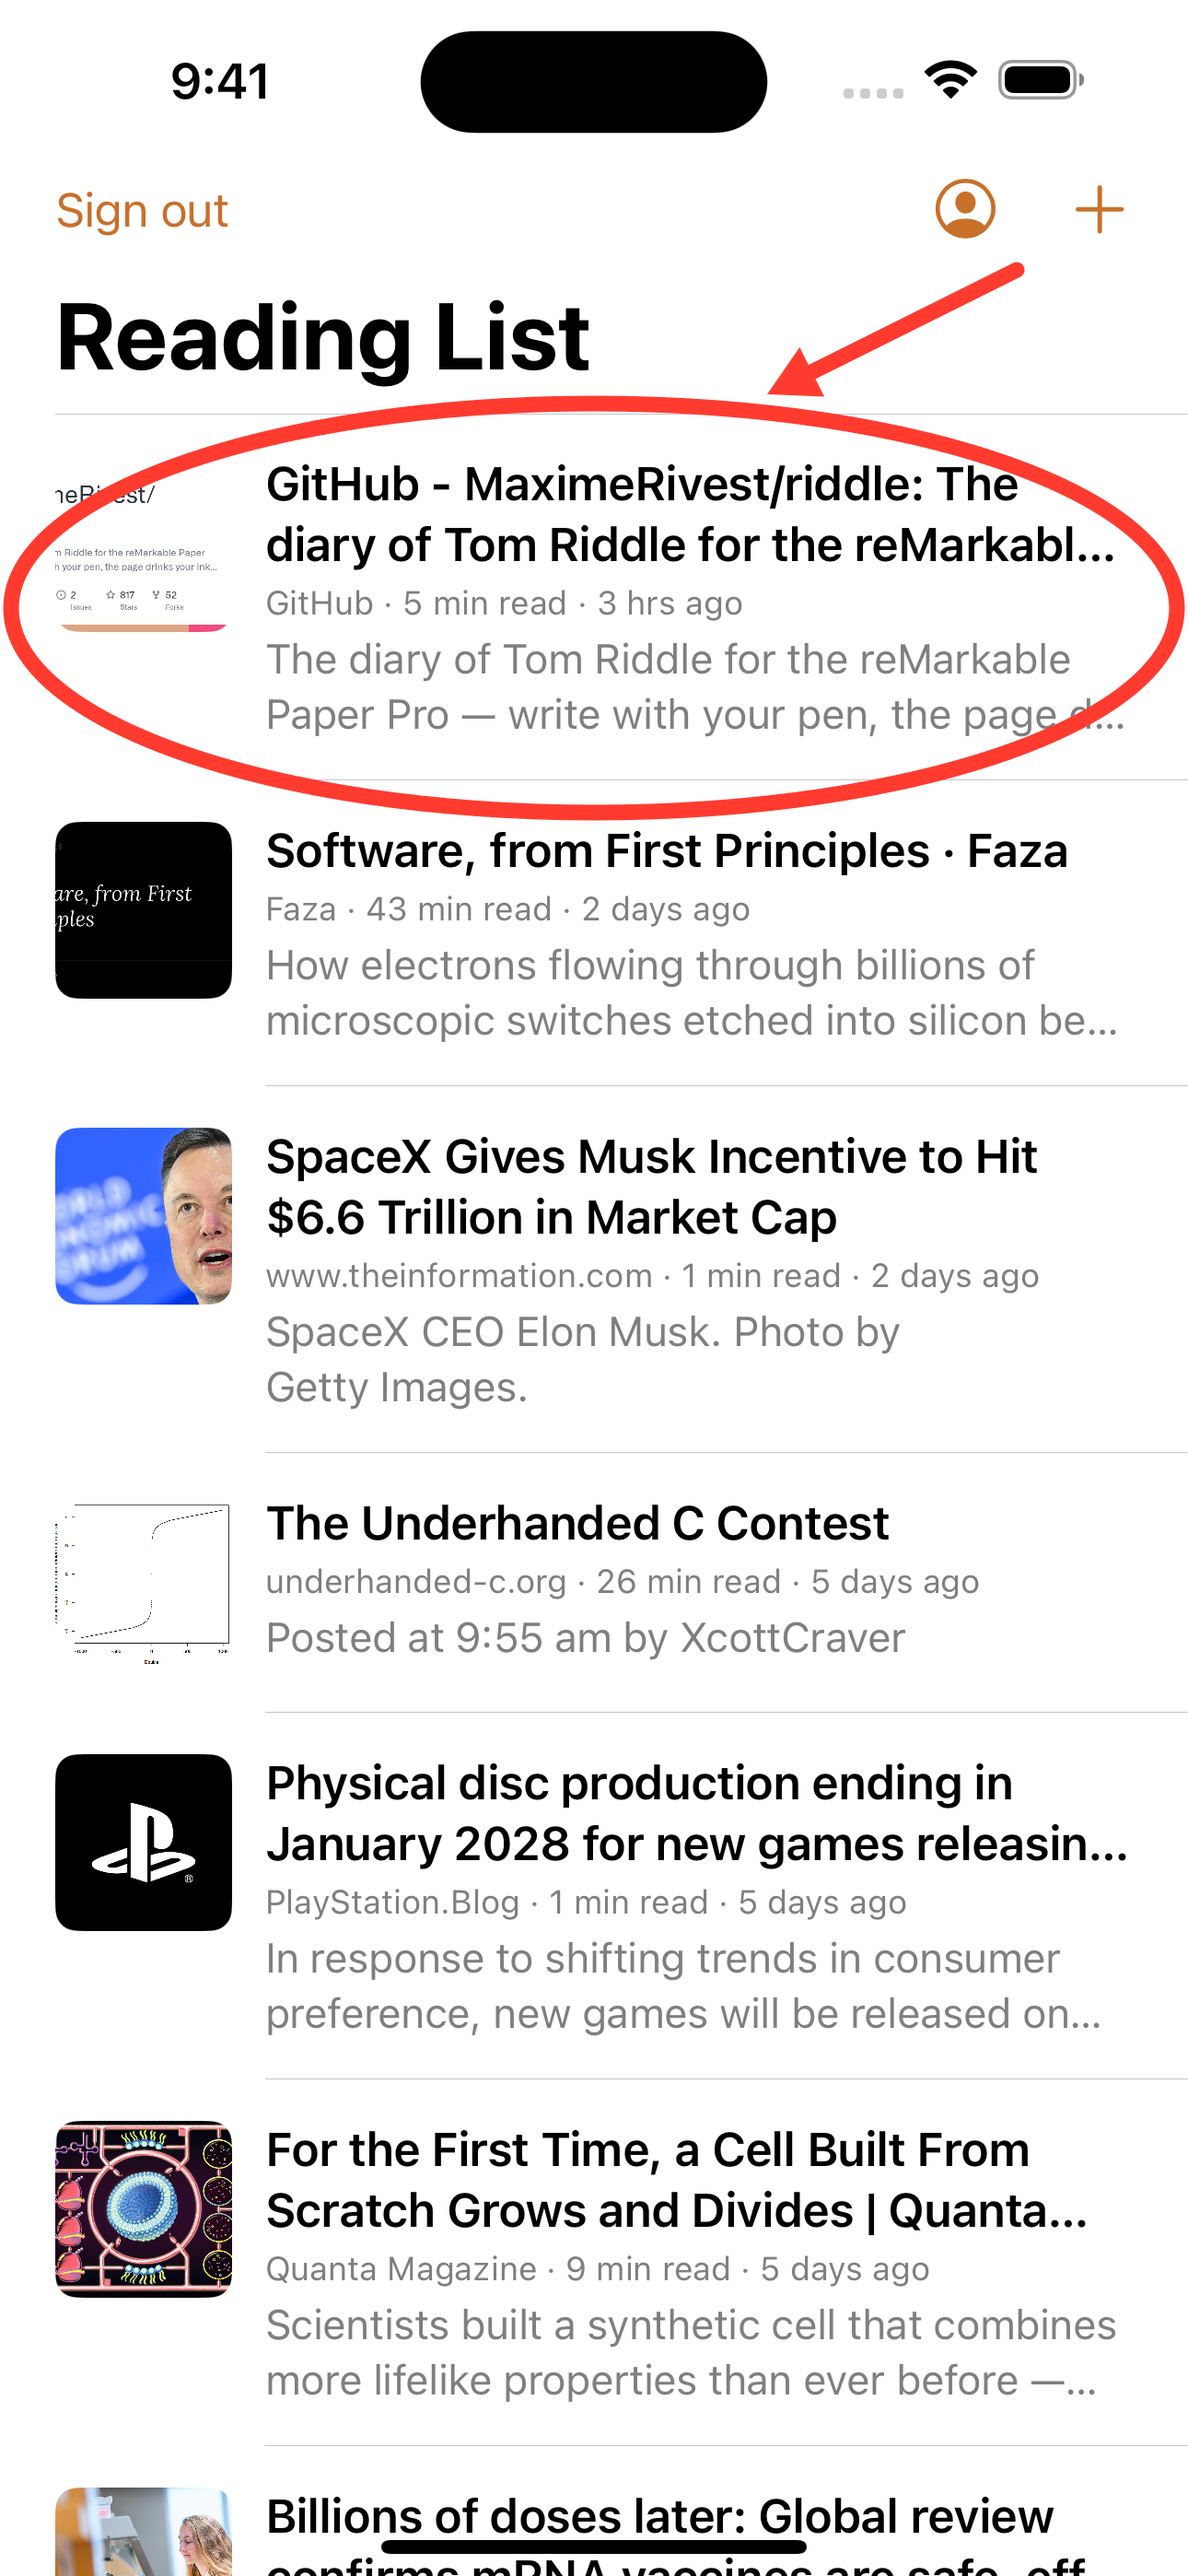
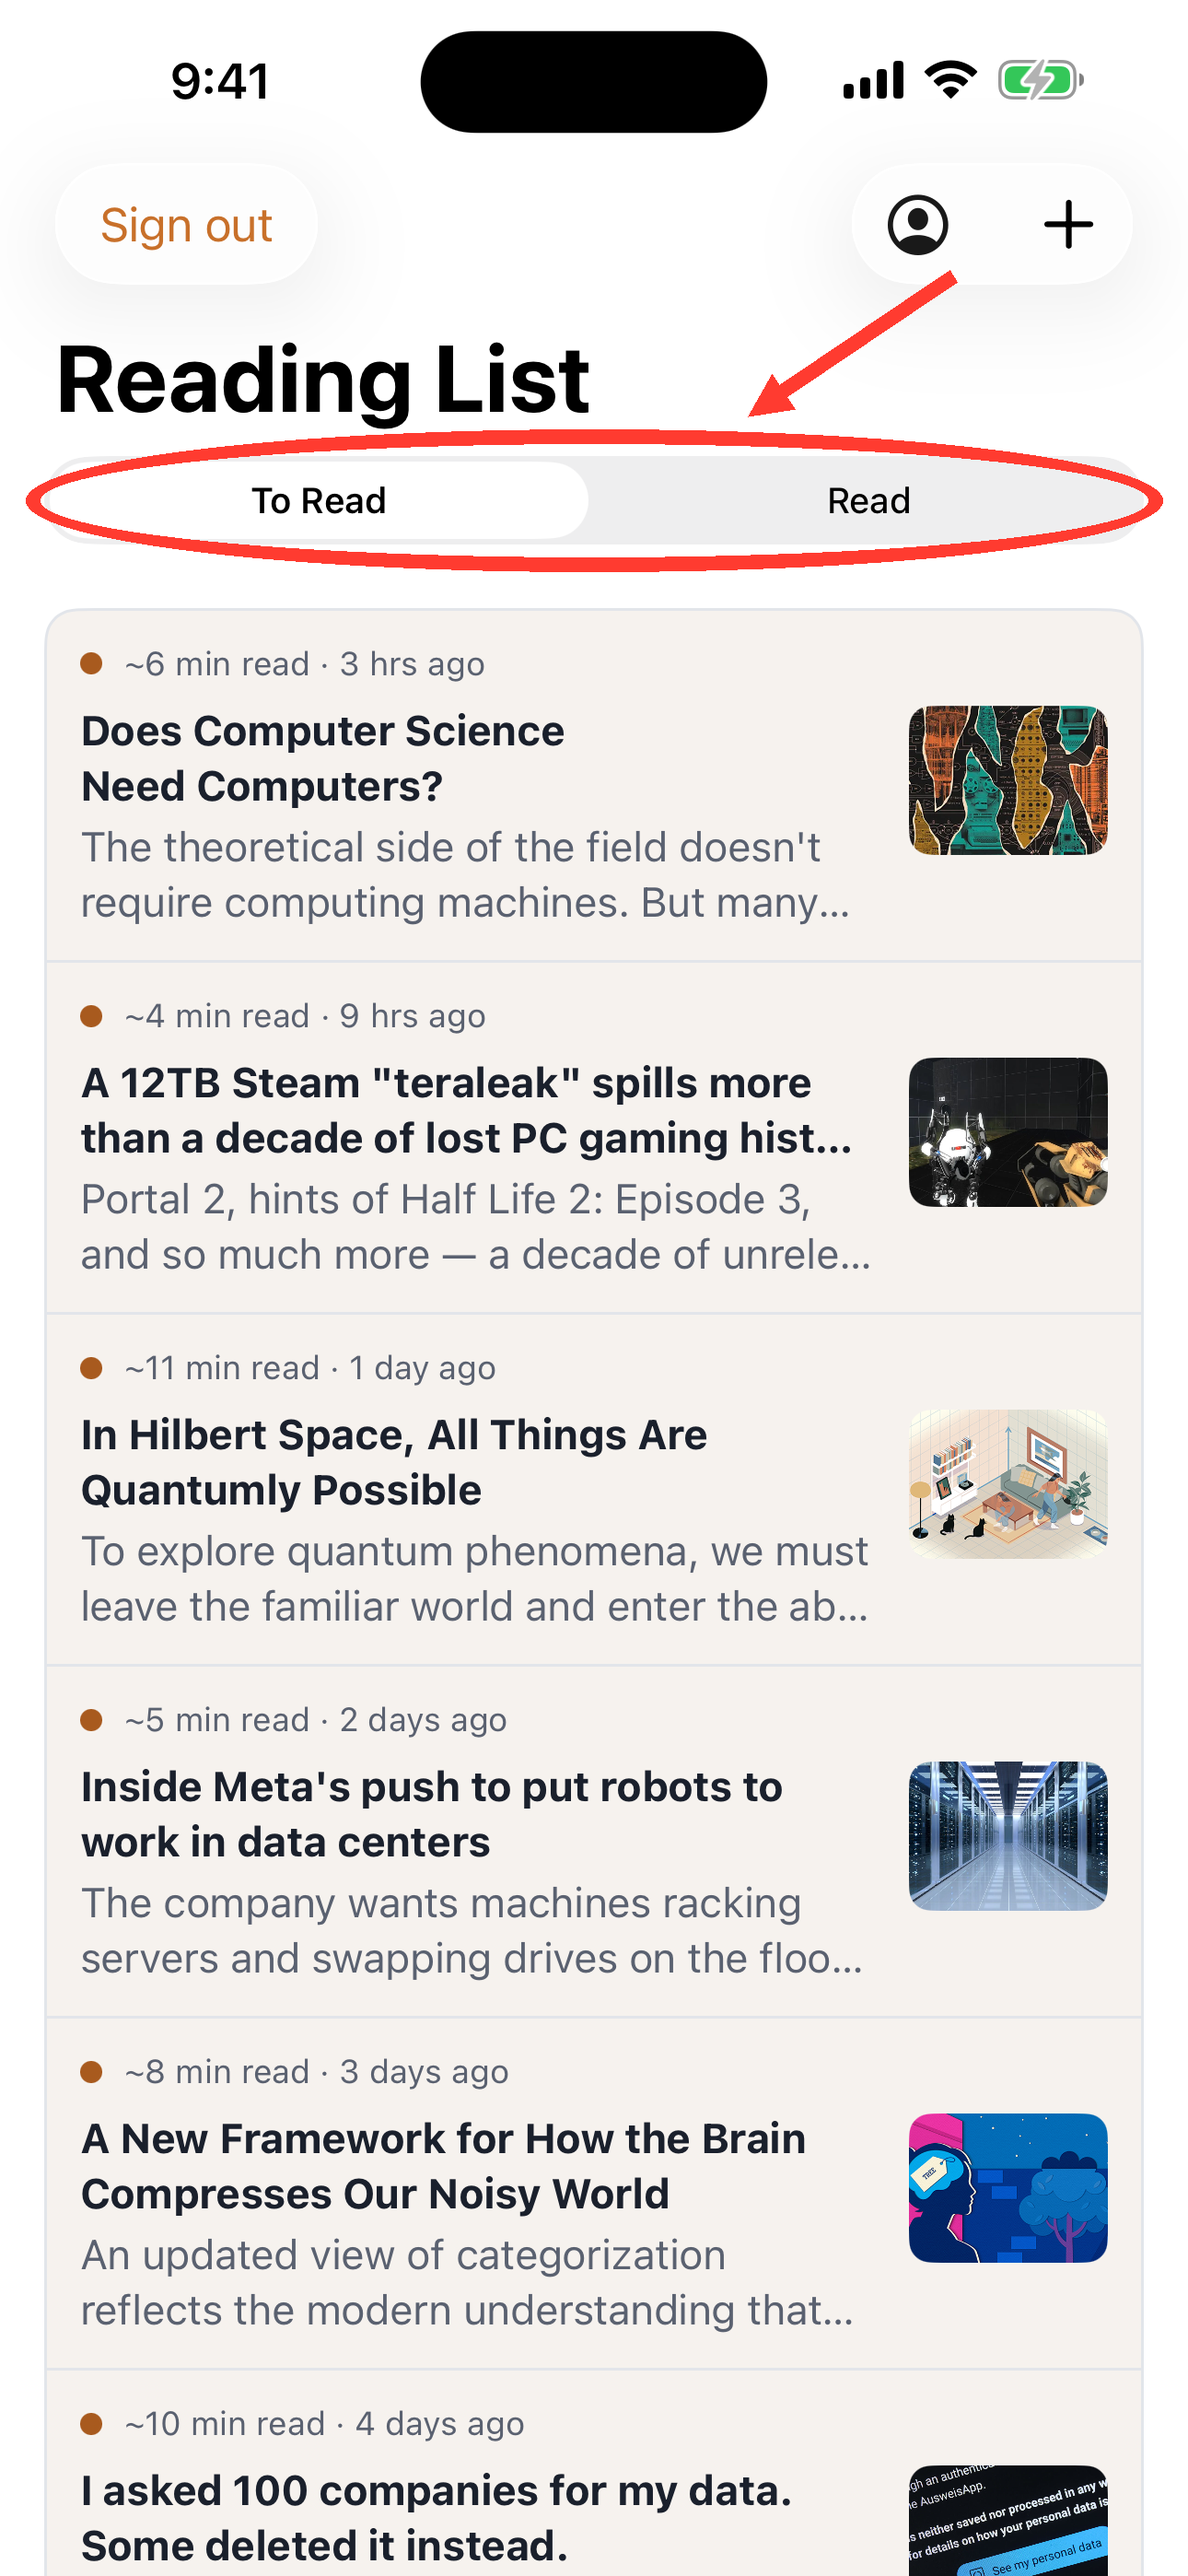
docs(ios): describe 1.0.104 and recapture the screenshots it changed
The listing still carried the 1.0.83 note ("the intro animation is gone") and
screenshots taken on 2026-07-26, which predate the reading-list restyle, the
To Read / Read segmented control and the brand-palette repaint. The hero shot
showed a screen the app no longer has, and the reader shot named a control the
product renamed: "Back to queue" is "Back to readlist" everywhere now.

The note covers what an upgrader from 1.0.83 actually meets: the Read tab, the
redesigned list, and share-sheet saves that no longer drop the captured page.
The in-app web reading-list door is deliberately absent — it was added and
reverted inside this range and only ever existed in internal build 95.

Shots 1, 2 and 4 are recaptured on an iPhone 15 Pro Max at iOS 26.5 (the 6.9"
devices capture 1320x2868, a size this fastlane cannot file), with the callout
on shot 1 moved onto the filter it now teaches. Shot 3 is the system share
sheet and is unchanged. Nothing in CI compares the committed PNGs against the
build, so the recapture recipe is written down next to the flatten-to-RGB rule
it depends on.

diff --git a/projects/native-apps/ios/RELEASING.md b/projects/native-apps/ios/RELEASING.md
@@ -265,6 +265,20 @@ listing and a deliberate human submission. The moving parts:
    "screenshots missing" until its retries run out. Flatten before committing,
    e.g.
    `python3 -c "from PIL import Image; im = Image.open('shot.png').convert('RGB'); im.save('shot.png')"`.
+
+   Nothing in CI compares the committed PNGs against the build — `verify_screenshots!`
+   only proves App Store Connect matches git — so a UI change silently leaves the
+   listing showing an app that no longer exists. Recapture whenever the screens in
+   frame change. The capture that produced the current set: create an **iPhone 15
+   Pro Max on the newest iOS runtime** (`simctl create`; a 16/17 Pro Max captures
+   1320×2868, the 6.9″ size this fastlane cannot file), `simctl ui … appearance
+   light`, `simctl status_bar … override --time 9:41`, run the app against a local
+   `dist/e2e/e2e-server.main.js` seeded through `/e2e/seed-crawled-article`, and
+   sign it in by planting `oauth.accessToken`/`oauth.refreshToken` in the App Group
+   plist **while the device is shut down** (a booted `cfprefsd` writes its cached
+   copy back over the file) followed by `simctl keychain … reset`, since the token
+   migration only runs when the Keychain has none. The red callouts are `#FF3B30`
+   at a 16px stroke.
 3. **App Review contact + demo account** ride the same push, from `prod`
    environment secrets (never git — they are PII/credentials):
    `ASC_REVIEW_FIRST_NAME`, `ASC_REVIEW_LAST_NAME`, `ASC_REVIEW_EMAIL`,
